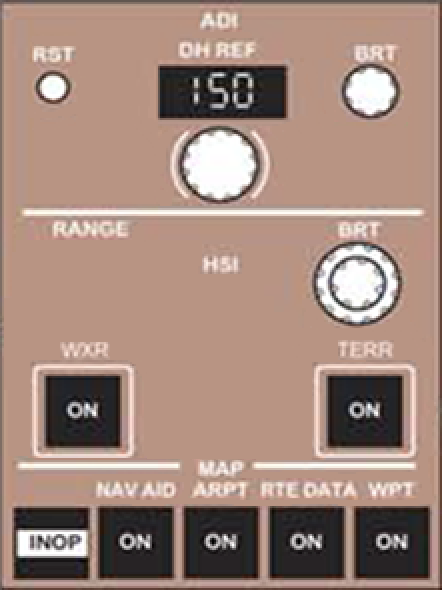
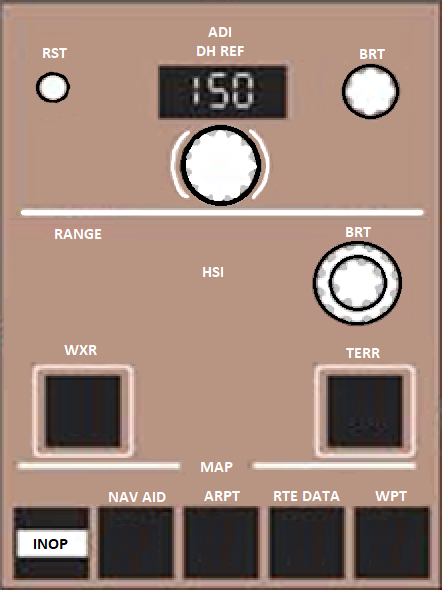
3
3

diff --git a/ExtPlane-Panel/widgetui/panelitems/switch.cpp b/ExtPlane-Panel/widgetui/panelitems/switch.cpp
@@ -15,9 +15,13 @@ Switch::Switch(ExtPlanePanel *panel, ExtPlaneConnection *conn) : PanelItem(panel
             _client.createClient();
             conn->registerClient(&_client);
             connect(&_client, SIGNAL(refChanged(QString,double)), this, SLOT(valueChanged(QString,double)));
+            connect(&_client, SIGNAL(refChanged(QString,QString)),this, SLOT(valueChanged(QString,QString)));
             _value = false;
             _label = "Switch";
-            _ref = 0;
+            _positionValue1 = "0";
+            _positionValue2 = "1";
+            _switchPosition = 1;
+            _dataref = 0;
             setSize(100,30);
 }
 
@@ -37,22 +41,23 @@ void Switch::paint(QPainter *painter, const QStyleOptionGraphicsItem *option, QW
 
     switchWidth = height()/3;
     painter->translate(switchWidth/2, height()/2);
-
     // QPolygon p;
     // p << QPoint(-switchWidth/4, 0) << QPoint(switchWidth/4, 0)
     //   << QPoint(switchWidth/2, height()/2) << QPoint(-switchWidth/2, height()/2);
+    // DEBUG << "Current Value: " << _value << " || position: " << _switchPosition << endl;
     if(_value)
         painter->scale(1,-1);
     if(_value) {
         // painter->setBrush(QBrush(QImage(":/images/FuelSwitch.png")));
-        painter->drawImage(QRect(-26, height()/4-circleSize, circleSize, circleSize), QImage(":/images/FuelSwitch.png"));
+        painter->drawImage(QRect(-16, height()/4-circleSize, circleSize, circleSize),
+                           QImage(":/images/FuelSwitch.png"));
     } else {
         // painter->setBrush(QBrush(QImage(":/images/FuelSwitch.png").mirrored(true, false)));
                        // LEFT/RIGHT,    UP/DOWN,      WIDTH,      HIGHT
-        painter->drawImage(QRect(-26, height()/4-circleSize, circleSize, circleSize), QImage(":/images/FuelSwitch.png").mirrored(true, false));
-    }
-    //painter->drawPolygon(p);
-
+        painter->drawImage(QRect(-16, height()/4-circleSize, circleSize, circleSize),
+                           QImage(":/images/FuelSwitch.png").mirrored(true, false));
+}
+    // painter->drawPolygon(p);
     painter->restore();
     painter->setPen(Qt::white);
     QFont font = defaultFont;
@@ -66,14 +71,18 @@ void Switch::storeSettings(QSettings &settings) {
     PanelItem::storeSettings(settings);
 
     settings.setValue("label", _label);
-    settings.setValue("dataref", _refname);
+    settings.setValue("dat1aref", _refname);
+    settings.setValue("positionValue1", _positionValue1);
+    settings.setValue("positionValue2", _positionValue2);
 }
 
 void Switch::loadSettings(QSettings &settings) {
     PanelItem::loadSettings(settings);
     //setButtonId(settings.value("id", 0).toInt());
     setLabel(settings.value("label", "Switch").toString());
-    setRef(settings.value("dataref", "").toString());
+    setDataRef(settings.value("dataref", "1-sim/lights/landingR/switch").toString());
+    setPositionValue1(settings.value("positionValue1", "0").toString());
+    setPositionValue2(settings.value("positionValue2", "1").toString());
 }
 
 void Switch::createSettings(QGridLayout *layout) {
@@ -84,17 +93,20 @@ void Switch::createSettings(QGridLayout *layout) {
 
     layout->addWidget(new QLabel("Dataref", layout->parentWidget()));
     QLineEdit *refEdit = new QLineEdit(_refname, layout->parentWidget());
-    connect(refEdit, SIGNAL(textChanged(QString)), this, SLOT(setRef(QString)));
+    connect(refEdit, SIGNAL(textChanged(QString)), this, SLOT(setDataRef(QString)));
     layout->addWidget(refEdit);
+
+    createLineEditSetting(layout, "Value #1", _positionValue1, SLOT(setPositionValue1(QString)));
+    createLineEditSetting(layout, "Value #2", _positionValue2, SLOT(setPositionValue2(QString)));
 }
 
 void Switch::applySettings() {
-    if(_ref) {
-        _ref->unsubscribe();
-        _ref = 0;
+    if(_dataref) {
+        _dataref->unsubscribe();
+        _dataref = 0;
     }
     if(!_refname.isEmpty())
-        _ref = _client.subscribeDataRef(_refname, 0);
+        _dataref = _client.subscribeDataRef(_refname, 0);
 }
 
 void Switch::setLabel(QString txt) {
@@ -102,11 +114,12 @@ void Switch::setLabel(QString txt) {
     update();
 }
 
-void Switch::setRef(QString txt) {
-    if(_ref) {
-        _ref->unsubscribe();
-        _ref = 0;
+void Switch::setDataRef(QString txt) {
+    if(_dataref) {
+        _dataref->unsubscribe();
+        _dataref = 0;
     }
+    //DEBUG << "_refname: " << _refname << endl;
     _refname = txt;
     update();
 }
@@ -121,15 +134,24 @@ void Switch::mouseReleaseEvent(QGraphicsSceneMouseEvent *event) {
     if(isEditMode()) {
         PanelItem::mouseReleaseEvent(event);
     } else if(event->pos().x() < switchWidth) {
-        _value = !_value;
-        if(_ref) _ref->setValue(_value ? "2" : "0");
+        _value = !_value;  // kinda duplicated this ..... big dummy
+        if (_switchPosition == 1) { _switchPosition--; }
+        else if (_switchPosition == 0) { _switchPosition++; }
+        else { _switchPosition = 0; }
+        if(_dataref) {
+            _dataref->setValue(_value ? "1" : "0");
+            if (_switchPosition == 1) {  _dataref->setValue(_positionValue1); }
+            if (_switchPosition == 0) {  _dataref->setValue(_positionValue2); }
+        }
         update();
     }
 }
 
 void Switch::valueChanged(QString ref, double newValue) {
-    DEBUG << ref << newValue;
+    valueChanged(ref,QString("%1").arg(newValue));
+}
+
+void Switch::valueChanged(QString ref, QString newValue) {
     Q_ASSERT(ref==_refname);
     _value = newValue != 0;
-    qDebug() << "Value Changed: " << _value << endl;
 }

diff --git a/ExtPlane-Panel/widgetui/panelwindow.cpp b/ExtPlane-Panel/widgetui/panelwindow.cpp
@@ -77,7 +77,8 @@ PanelWindow::PanelWindow() : QGraphicsView(), scene(), statusMessage() {
     setVerticalScrollBarPolicy(Qt::ScrollBarAlwaysOff);
     setSceneRect(0, 0, width(), height());
 
-    setBackgroundBrush(QBrush(QImage(":/images/pedestal.png")));
+    setBackgroundBrush(QBrush(QImage(":/images/ADIHSIPANEL.png")));
+    //setBackgroundBrush(QBrush(QImage(":/images/pedestal.png")));
     setFrameShape(QFrame::NoFrame);
 
     // Settings dialog
@@ -173,7 +174,8 @@ PanelWindow::PanelWindow() : QGraphicsView(), scene(), statusMessage() {
                               appSettings->valueFromSettingsOrCommandLine("height", 768).toInt());
         } else {
             // Default window size
-            resize(1024,768);
+            resize(440,609);
+            // resize(1024,768);
         }
     }
 
@@ -517,7 +519,7 @@ void PanelWindow::loadProfile(QString filename) {
 
 void PanelWindow::loadBGImage() {                     // added so we can switch teh background picture
     QString filename = QFileDialog::getOpenFileName(this, tr("Open BG Image"), "", tr("Ini Files (*.png)"));
-    if(!filename.isEmpty()) loadBGPicture(filename);
+    if(!filename.isEmpty()) loadBGImage(filename);
 }
 
 void PanelWindow::loadBGImage(QString filename) {     // added so we can switch teh background picture

diff --git a/ExtPlane-Panel/widgetui/panelitems/switch.h b/ExtPlane-Panel/widgetui/panelitems/switch.h
@@ -20,15 +20,21 @@ signals:
 
 public slots:
     void setLabel(QString txt);
-    void setRef(QString ref);
+    void setDataRef(QString ref);
+    void setPositionValue1(QString val) { _positionValue1 = val; }
+    void setPositionValue2(QString val) { _positionValue2 = val; }
 private slots:
     void valueChanged(QString ref, double newValue);
+    void valueChanged(QString ref, QString newValue);
 private:
     ExtPlaneClient _client;
     int _buttonId;
+    int _switchPosition;
     QString _label, _refname;
     bool _value;
-    ClientDataRef* _ref;
+    QString _positionValue1;
+    QString _positionValue2;
+    ClientDataRef* _dataref;
     int switchWidth;
 };
 

diff --git a/ExtPlane-Panel/widgetui/panelitems/indicatordisplay.cpp b/ExtPlane-Panel/widgetui/panelitems/indicatordisplay.cpp
@@ -264,9 +264,10 @@ void IndicatorDisplay::setDataRefName(QString name) {
     if(_datarefName != "" && _client.isDataRefSubscribed(_datarefName)) _client.unsubscribeDataRef(_datarefName); //TODO: there seems to be something wrong with unsubscribing...
     _datarefName = name;
     _datarefValue = "";
-
+    qDebug() << "PreSubscribeDataRef: " << name;
     // Subscribe new
     _client.subscribeDataRef(name, 0);
+    qDebug() << "PostSubscribeDataRef: ";
 }
 
 void IndicatorDisplay::dataRefChanged(QString name, QString val) {

diff --git a/ExtPlane-Panel/widgetui/panelitems/button.cpp b/ExtPlane-Panel/widgetui/panelitems/button.cpp
@@ -11,8 +11,7 @@
 
 REGISTER_WITH_PANEL_ITEM_FACTORY(Button,"buttons/generic");
 
-Button::Button(ExtPlanePanel *panel, ExtPlaneConnection *conn) :
-        PanelItem(panel, PanelItemTypeSwitch, PanelItemShapeRectangular),
+Button::Button(ExtPlanePanel *panel, ExtPlaneConnection *conn) : PanelItem(panel, PanelItemTypeSwitch, PanelItemShapeRectangular),
         _client(this, typeName(), conn) {
             _client.createClient();
             conn->registerClient(&_client);
